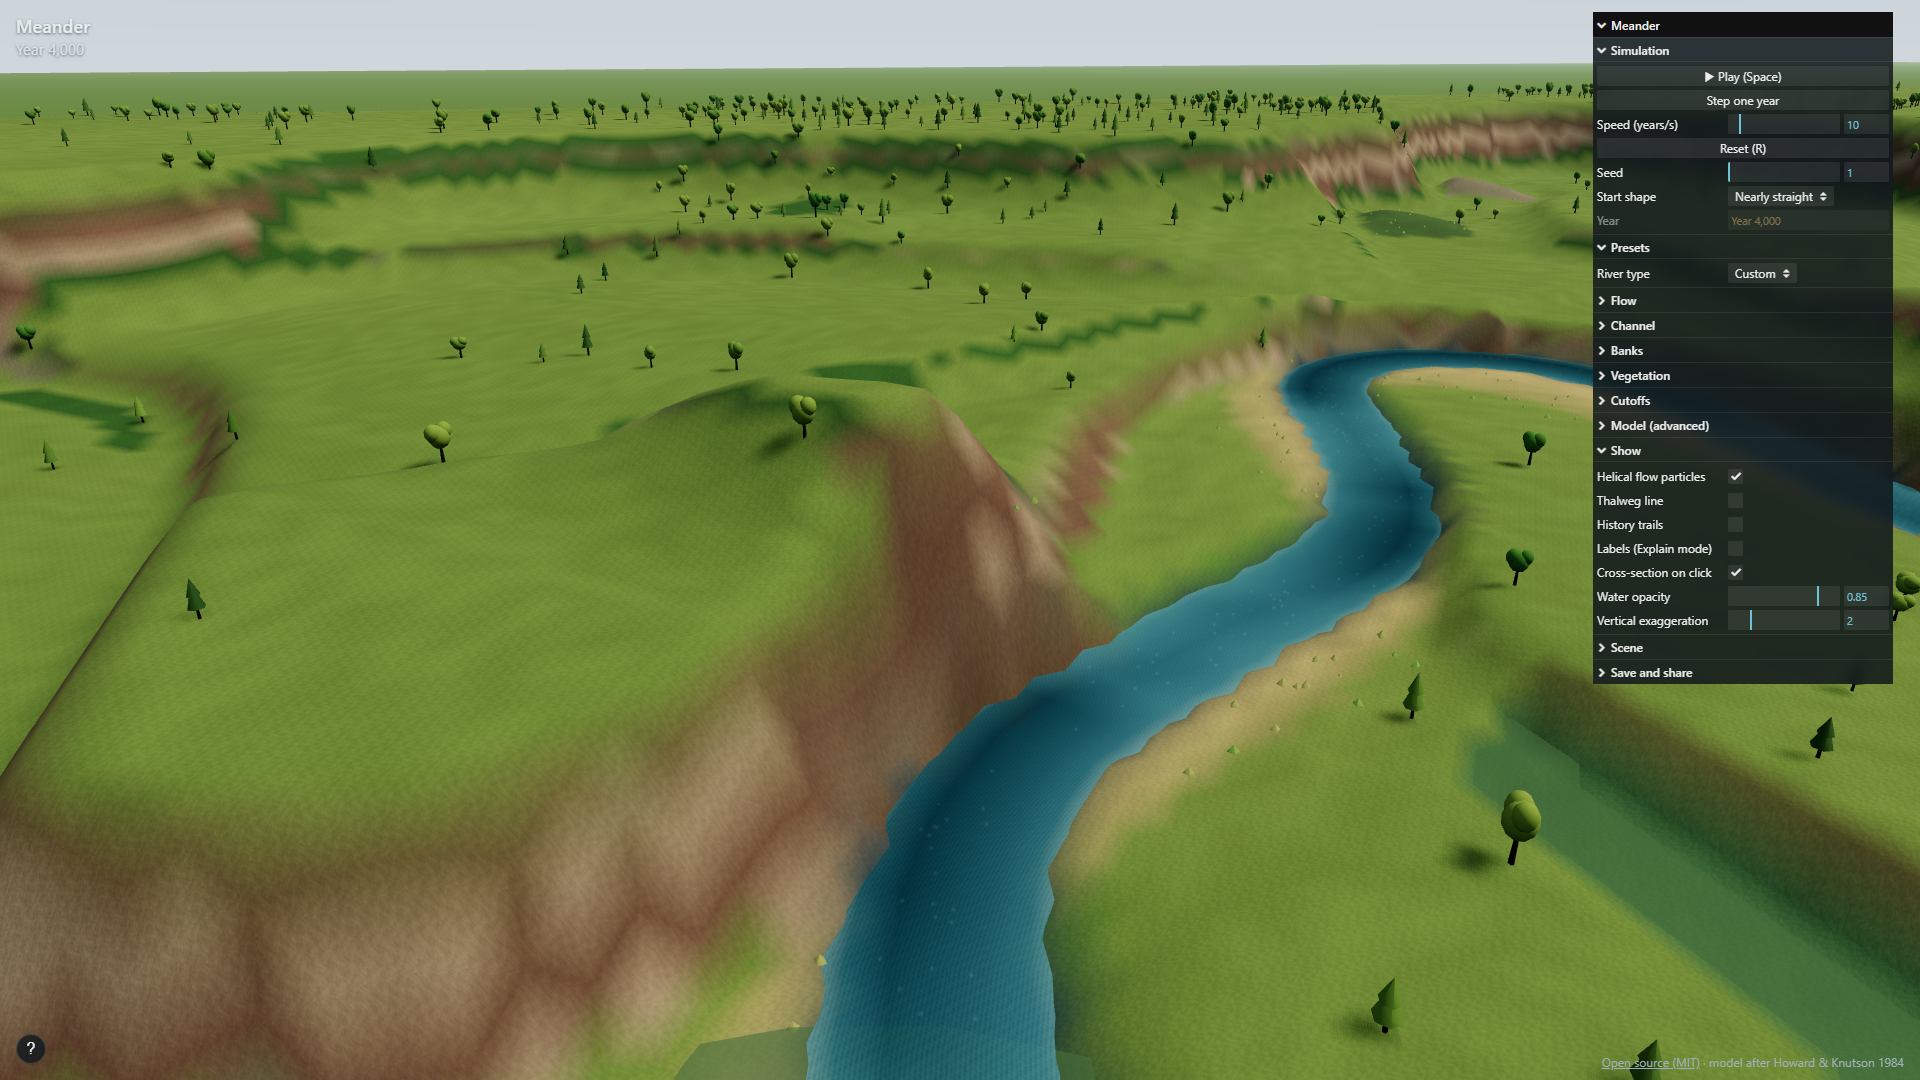
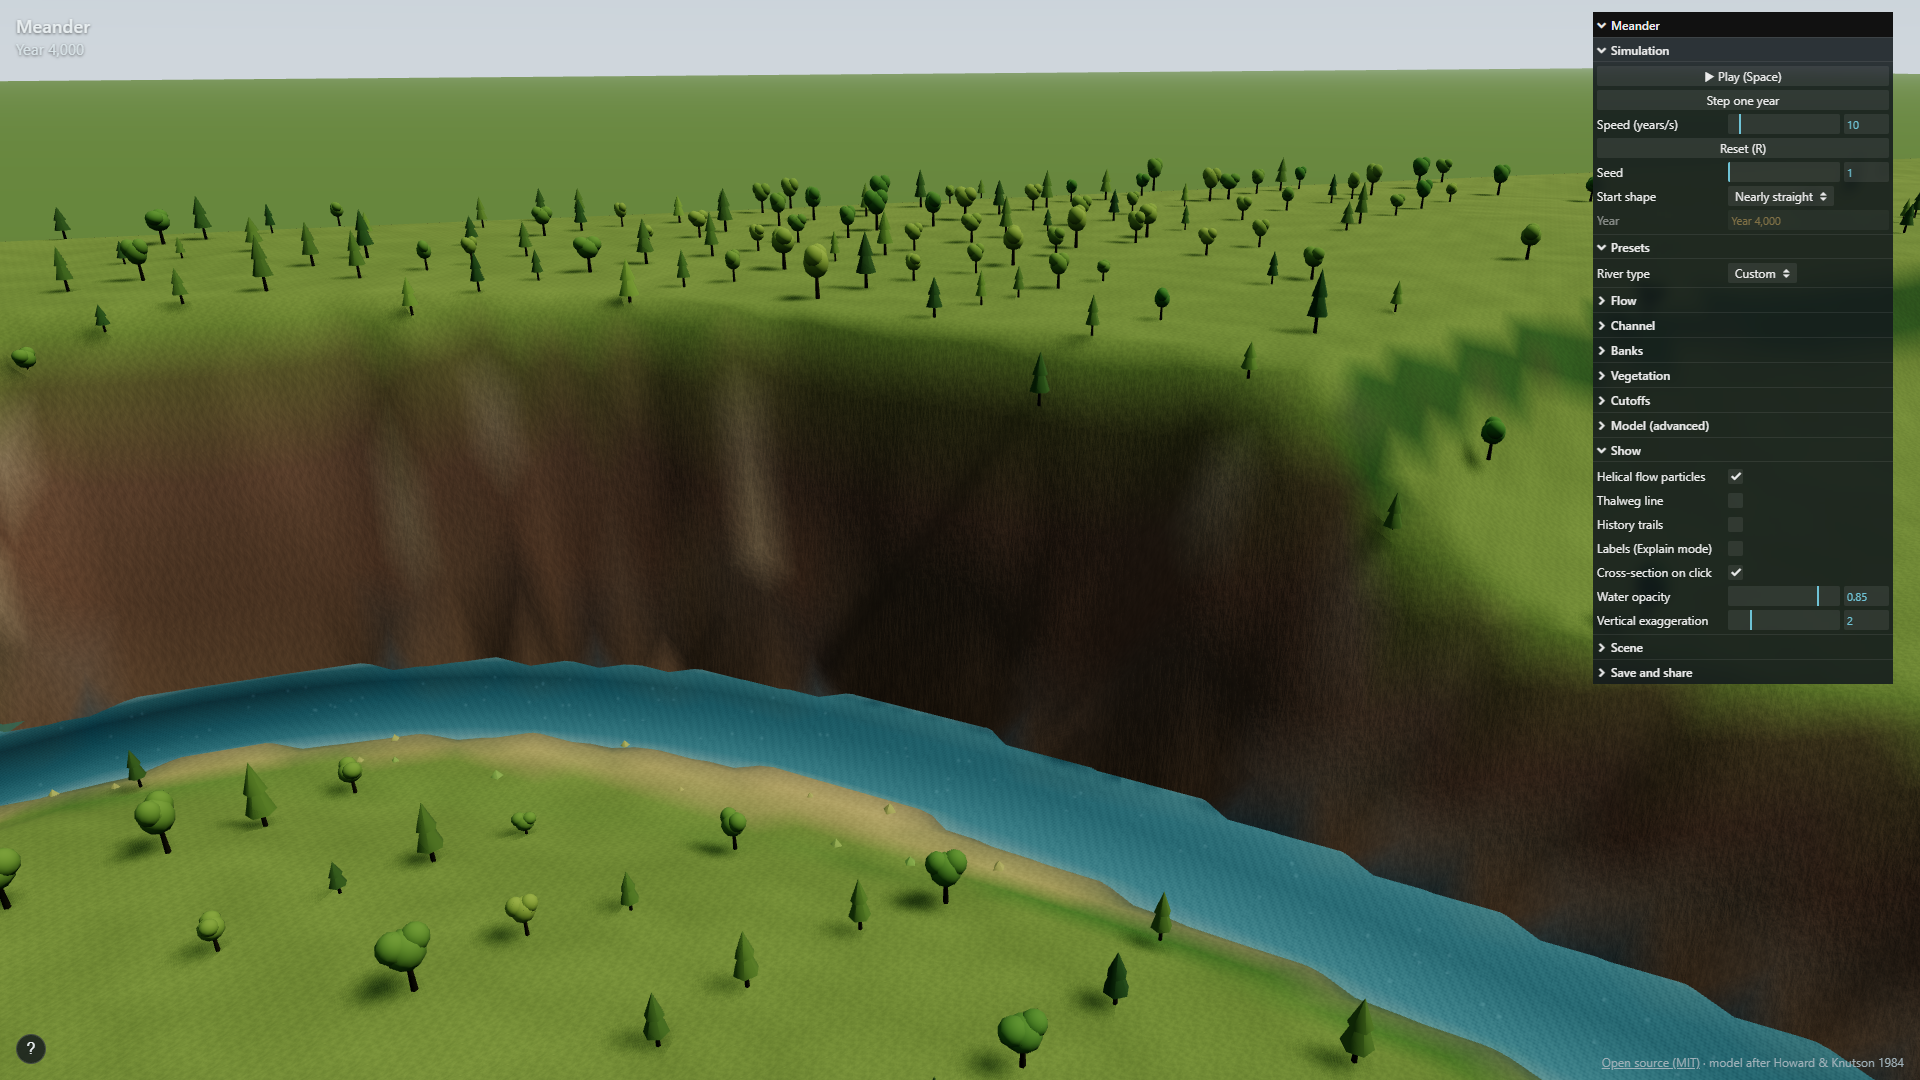
docs: v1.2 gorge screenshots and notes; ledger complete
Claude-Session: https://claude.ai/code/session_014qz6KBxRRvPpjqXdUnTKtz

diff --git a/docs/looks/README.md b/docs/looks/README.md
@@ -64,3 +64,21 @@ halves the steps. Steep terrace scarps do use the flatter-diagonal split.
 
 Phone shots (`v11-phone-*`, from `node scripts/shoot-phone.mjs v11`): Pixel 7
 emulation with touch, Low quality, folded panel, touch toolbar, help sheet.
+
+## 2026-11-02: gorges (v1.2)
+
+`v12-gorge-*` from `node scripts/shoot-gorge.mjs v12`: seed 1 cutting down at
+15 m per 1000 years, at year 4000 (60 m below the old floodplain), Medium
+quality. The "before" is Steven's screenshot from v1.1: grey walls standing
+at one steep angle, and a dead-straight canyon below the inlet.
+
+| Change | Where it shows |
+| --- | --- |
+| The river keeps winding in its gorge and cuts off loops; no straight canyon below the inlet (its entry point swings slowly) | `-1-overview`, `-2-oblique` |
+| Loops cut off while cutting down are left hanging, dry, on the terraces | `-1-overview`, `-3-labels` |
+| Bedrock walls coloured by layer: pale buff hard cliffs, red-brown soft slopes, in steps | `-6-ledges`, `-5-gully` |
+| Rims rounded by creep; scree below the cliffs; gullies with fans | `-5-gully`, `-6-ledges` |
+| Landslide scars and debris (random, and the Landslide button) | `-4-landslide`, `-7-button` |
+| Explain labels for landslides, gullies, fans, scree, rock ledges, abandoned meanders | `-3-labels` |
+
+`v12-phone-*` are the usual phone checks (`node scripts/shoot-phone.mjs v12`).
